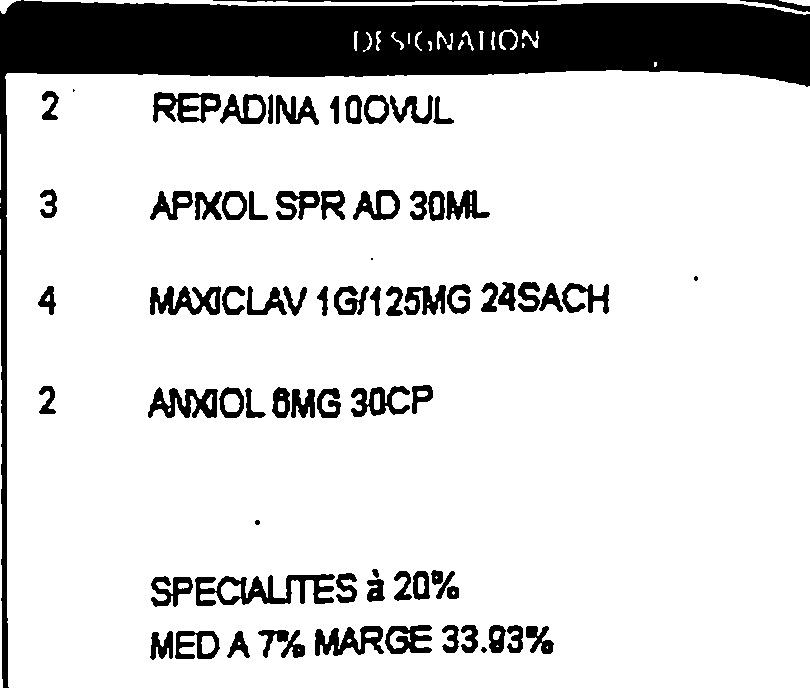
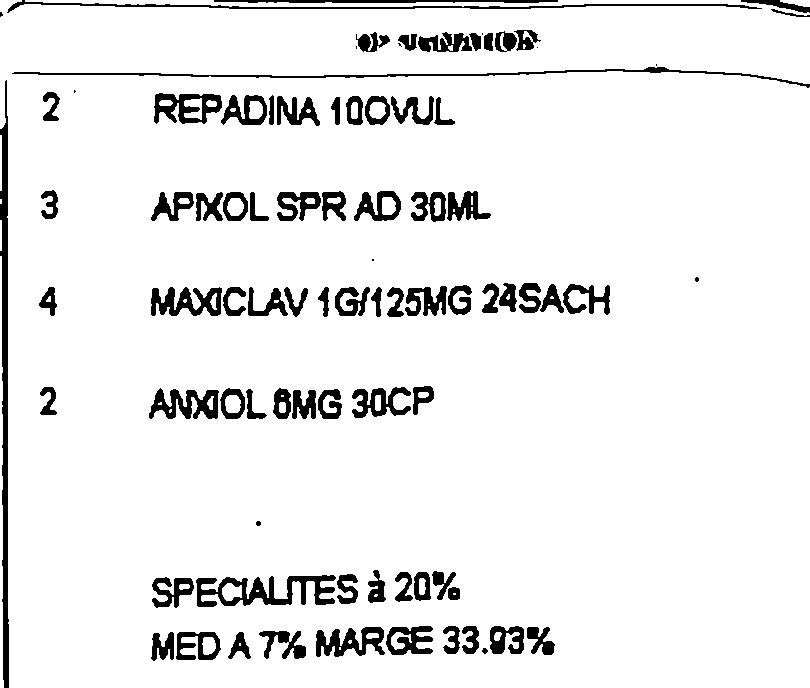
change pc sophatel 16-04-2024 13:00 cropping page ...

diff --git a/src/prePorcessingImgText.py b/src/prePorcessingImgText.py
@@ -5,12 +5,15 @@ import numpy as np
 import cv2
 # import matplotlib.pyplot as plt
 from matplotlib import pyplot as plt
+import os
 
-# ------------- Single Image --------------
-# Load the image
-image_name = 'BLS_1_croped_header'
-original_image = cv2.imread('../data/models/' + image_name + '.jpg')
+# ---------- Image preprocessing steps for many parts of image to a folder ----------
 
+# Define your main directory containing subfolders of images
+main_directory = "../data/output_cropage"
+
+# Define your output directory
+output_directory = "../data/output_cropage_Processed"
 
 def display(im_path):
     dpi = 80
@@ -32,7 +35,6 @@ def display(im_path):
     ax.imshow(im_data, cmap='gray')
 
     plt.show()
-
 
 def deskew(image):
     # Find coordinates of non-zero pixels
@@ -63,7 +65,6 @@ def deskew(image):
 
     return rotated
 
-
 def noise_removal(image):
     import numpy as np
     kernel = np.ones((1, 1), np.uint8)
@@ -74,7 +75,6 @@ def noise_removal(image):
     image = cv2.medianBlur(image, 3)
     return (image)
 
-
 def thin_font(image):
     import numpy as np
     image = cv2.bitwise_not(image)
@@ -83,64 +83,250 @@ def thin_font(image):
     image = cv2.bitwise_not(image)
     return (image)
 
-
 def thick_font(image):
     import numpy as np
     image = cv2.bitwise_not(image)
-    kernel = np.ones((3, 3), np.uint8)
+    kernel = np.ones((2, 2), np.uint8)
     image = cv2.dilate(image, kernel, iterations=1)
     image = cv2.bitwise_not(image)
     return (image)
 
+def processing_the_img(image):
+    # -- - Skew Correction
+    skew_correction = deskew(image)
 
+    # 1 - Inverted Images
+    inverted_image = cv2.bitwise_not(image)
+
+    # 2 - Binarization - Convert the image to grayscale
+    gray_image = cv2.cvtColor(image, cv2.COLOR_RGB2GRAY)  # cv2.COLOR_BGR2GRAY || cv2.COLOR_RGB2GRAY
+    # plt.imshow(cv2.cvtColor(gray_image, cv2.COLOR_GRAY2RGB))
+    # plt.show()
+
+    # Apply Gaussian blur to remove noise
+    # blurred_image = cv2.GaussianBlur(gray_image, (5, 5), 0)
+
+
+    # 3 - Threshold - Apply thresholding to create a binary image
+    _, binary_image = cv2.threshold(gray_image, 210, 255, cv2.THRESH_BINARY )  # cv2.THRESH_OTSU
+
+    # 4 - Noise Removal
+    no_noise = noise_removal(binary_image)
+
+    # 5 - Dilation and Erosion
+    eroded_image = thin_font(no_noise)
+
+    # 6 - Thick Font
+    dilated_image = thick_font(no_noise)
+
+    # 7 - Removing Shadows
+    rgb_planes = cv2.split(dilated_image)
+    result_planes = []
+    result_norm_planes = []
+    for plane in rgb_planes:
+        dilated_img = cv2.dilate(plane, np.ones((7, 7), np.uint8))
+        bg_img = cv2.medianBlur(dilated_img, 21)
+        diff_img = 255 - cv2.absdiff(plane, bg_img)
+        result_planes.append(diff_img)
+    img = cv2.merge(result_planes)
+
+    eroded_image = thin_font(img)
+
+    return eroded_image
+    # plt.imshow(cv2.cvtColor(eroded_image, cv2.COLOR_GRAY2RGB))
+    # plt.show()
+
+
+# Loop through each sub-folder in the main directory
+for folder_name in os.listdir(main_directory):
+    folder_path = os.path.join(main_directory, folder_name)
+
+    # Make sure it's a directory
+    if os.path.isdir(folder_path):
+
+        # Create a corresponding output folder
+        output_folder_path = os.path.join(output_directory, folder_name + '__Processed')
+        if not os.path.exists(output_folder_path):
+            os.makedirs(output_folder_path)
+
+        # Loop through each image in the sub-folder
+        for image_name in os.listdir(folder_path):
+            if image_name.lower().endswith(('.png', '.jpg', '.jpeg')):
+                image_path = os.path.join(folder_path, image_name)
+                image = cv2.imread(image_path)
+
+                # Apply the preprocessing functions to the image
+                preprocessed_image = processing_the_img(image)
+
+                # Save the processed image in the new folder with the modified name
+                processed_image_path = os.path.join(output_folder_path, image_name.split('.')[0] + '__Processed.jpg')
+                cv2.imwrite(processed_image_path, preprocessed_image)
+
+                # Sshow the processed image
+                # plt.imshow(cv2.cvtColor(preprocessed_image, cv2.COLOR_BGR2RGB))
+                # plt.show()
+
+
+
+
+
+
+
+
+
+
+
+
+
+
+
+
+
+
+# ------------- Single Image --------------
+# # Load the image
+# image_nameimage_name = 'BLS_1_croped_labels'
+# original_image = cv2.imread('../data/models/' + image_name + '.jpg')
 #
-# -- - Skew Correction
-skew_correction = deskew(original_image)
-
-# 1 - Inverted Images
-inverted_image = cv2.bitwise_not(original_image)
-
-# 2 - Binarization - Convert the image to grayscale
-gray_image = cv2.cvtColor(original_image, cv2.COLOR_RGB2GRAY)  # cv2.COLOR_BGR2GRAY || cv2.COLOR_RGB2GRAY
-# plt.imshow(cv2.cvtColor(gray_image, cv2.COLOR_GRAY2RGB))
+#
+# def display(im_path):
+#     dpi = 80
+#     im_data = plt.imread(im_path)
+#
+#     height, width = im_data.shape[:2]
+#
+#     # What size does the figure need to be in inches to fit the image?
+#     figsize = width / float(dpi), height / float(dpi)
+#
+#     # Create a figure of the right size with one axes that takes up the full figure
+#     fig = plt.figure(figsize=figsize)
+#     ax = fig.add_axes([1, 1, 0, 0])
+#
+#     # Hide spines, ticks, etc.
+#     ax.axis('off')
+#
+#     # Display the image.
+#     ax.imshow(im_data, cmap='gray')
+#
+#     plt.show()
+#
+#
+# def deskew(image):
+#     # Find coordinates of non-zero pixels
+#     co_ords = np.where(image > 0)
+#
+#     # Convert the row and column indices to a two-dimensional array
+#     co_ords = np.column_stack((co_ords[1], co_ords[0])).astype(np.float32)
+#
+#     # Calculate the angle of rotation
+#     angle = cv2.minAreaRect(co_ords)[-1]
+#
+#     if angle < -45:
+#         angle = -(90 + angle)
+#     else:
+#         angle = -angle
+#
+#     # Get image dimensions
+#     (h, w) = image.shape[:2]
+#
+#     # Calculate the center point
+#     center = (w // 2, h // 2)
+#
+#     # Generate rotation matrix
+#     M = cv2.getRotationMatrix2D(center, angle, 1.0)
+#
+#     # Apply rotation to the image
+#     rotated = cv2.warpAffine(image, M, (w, h), flags=cv2.INTER_CUBIC, borderMode=cv2.BORDER_REPLICATE)
+#
+#     return rotated
+#
+#
+# def noise_removal(image):
+#     import numpy as np
+#     kernel = np.ones((1, 1), np.uint8)
+#     image = cv2.dilate(image, kernel, iterations=1)
+#     kernel = np.ones((1, 1), np.uint8)
+#     image = cv2.erode(image, kernel, iterations=1)
+#     image = cv2.morphologyEx(image, cv2.MORPH_CLOSE, kernel)
+#     image = cv2.medianBlur(image, 3)
+#     return (image)
+#
+#
+# def thin_font(image):
+#     import numpy as np
+#     image = cv2.bitwise_not(image)
+#     kernel = np.ones((2, 2), np.uint8)  # should be (2,2)
+#     image = cv2.erode(image, kernel, iterations=1)
+#     image = cv2.bitwise_not(image)
+#     return (image)
+#
+#
+# def thick_font(image):
+#     import numpy as np
+#     image = cv2.bitwise_not(image)
+#     kernel = np.ones((2, 2), np.uint8)
+#     image = cv2.dilate(image, kernel, iterations=1)
+#     image = cv2.bitwise_not(image)
+#     return (image)
+#
+#
+# #
+# # -- - Skew Correction
+# skew_correction = deskew(original_image)
+#
+# # 1 - Inverted Images
+# inverted_image = cv2.bitwise_not(original_image)
+#
+# # 2 - Binarization - Convert the image to grayscale
+# gray_image = cv2.cvtColor(original_image, cv2.COLOR_RGB2GRAY)  # cv2.COLOR_BGR2GRAY || cv2.COLOR_RGB2GRAY
+# # plt.imshow(cv2.cvtColor(gray_image, cv2.COLOR_GRAY2RGB))
+# # plt.show()
+#
+# # Apply Gaussian blur to remove noise
+# # blurred_image = cv2.GaussianBlur(gray_image, (5, 5), 0)
+#
+#
+# # 3 - Threshold - Apply thresholding to create a binary image
+# _, binary_image = cv2.threshold(gray_image, 210, 255, cv2.THRESH_BINARY )  # cv2.THRESH_OTSU
+#
+# # 4 - Noise Removal
+# no_noise = noise_removal(binary_image)
+#
+# # 5 - Dilation and Erosion
+# eroded_image = thin_font(no_noise)
+#
+# # 6 - Thick Font
+# dilated_image = thick_font(no_noise)
+#
+# # 7 - Removing Shadows
+# rgb_planes = cv2.split(dilated_image)
+# result_planes = []
+# result_norm_planes = []
+# for plane in rgb_planes:
+#     dilated_img = cv2.dilate(plane, np.ones((7, 7), np.uint8))
+#     bg_img = cv2.medianBlur(dilated_img, 21)
+#     diff_img = 255 - cv2.absdiff(plane, bg_img)
+#     result_planes.append(diff_img)
+# img = cv2.merge(result_planes)
+#
+# eroded_image = thin_font(img)
+# plt.imshow(cv2.cvtColor(eroded_image, cv2.COLOR_GRAY2RGB))
 # plt.show()
+#
+# # ---------------------------------------- Step 2 ----------------------------------------
+#
+# # Save the preprocessed image
+# preprocessed_image_path = '../output_models/' + image_name + '_Processed' + '.jpg'
+# cv2.imwrite(preprocessed_image_path, eroded_image)
+# # cv2.imwrite(preprocessed_image_path, no_noise)
 
-# Apply Gaussian blur to remove noise
-# blurred_image = cv2.GaussianBlur(gray_image, (5, 5), 0)
 
 
-# 3 - Threshold - Apply thresholding to create a binary image
-_, binary_image = cv2.threshold(gray_image, 210, 255, cv2.THRESH_BINARY )  # cv2.THRESH_OTSU
 
-# 4 - Noise Removal
-no_noise = noise_removal(binary_image)
 
-# 5 - Dilation and Erosion
-eroded_image = thin_font(no_noise)
 
-# 6 - Thick Font
-dilated_image = thick_font(no_noise)
 
-# 7 - Removing Shadows
-rgb_planes = cv2.split(dilated_image)
-result_planes = []
-result_norm_planes = []
-for plane in rgb_planes:
-    dilated_img = cv2.dilate(plane, np.ones((7, 7), np.uint8))
-    bg_img = cv2.medianBlur(dilated_img, 21)
-    diff_img = 255 - cv2.absdiff(plane, bg_img)
-    result_planes.append(diff_img)
-img = cv2.merge(result_planes)
 
-eroded_image = thin_font(img)
-plt.imshow(cv2.cvtColor(eroded_image, cv2.COLOR_GRAY2RGB))
-plt.show()
-
-# ---------------------------------------- Step 2 ----------------------------------------
-
-# Save the preprocessed image
-preprocessed_image_path = '../output_models/' + image_name + '_Processed' + '.jpg'
-cv2.imwrite(preprocessed_image_path, no_noise)
 
 
 

diff --git a/src/tess_ocr__worked____git.py b/src/tess_ocr__worked____git.py
@@ -13,7 +13,7 @@ for i in range(4):
     index = ["1", "3", "4" , "8"]
 
     # Open the image
-    img_name = 'BLS_' + index[i] + '_croped_header' + '_Processed'
+    img_name = 'BLS_' + index[i] + '_croped_labels' + '_Processed'
     image = Image.open('../output_models/' + img_name + '.jpg')
     # img_name = 'BLS_' + str(i + 1)
     # img_name = 'BLS_8_croped_Processed'
